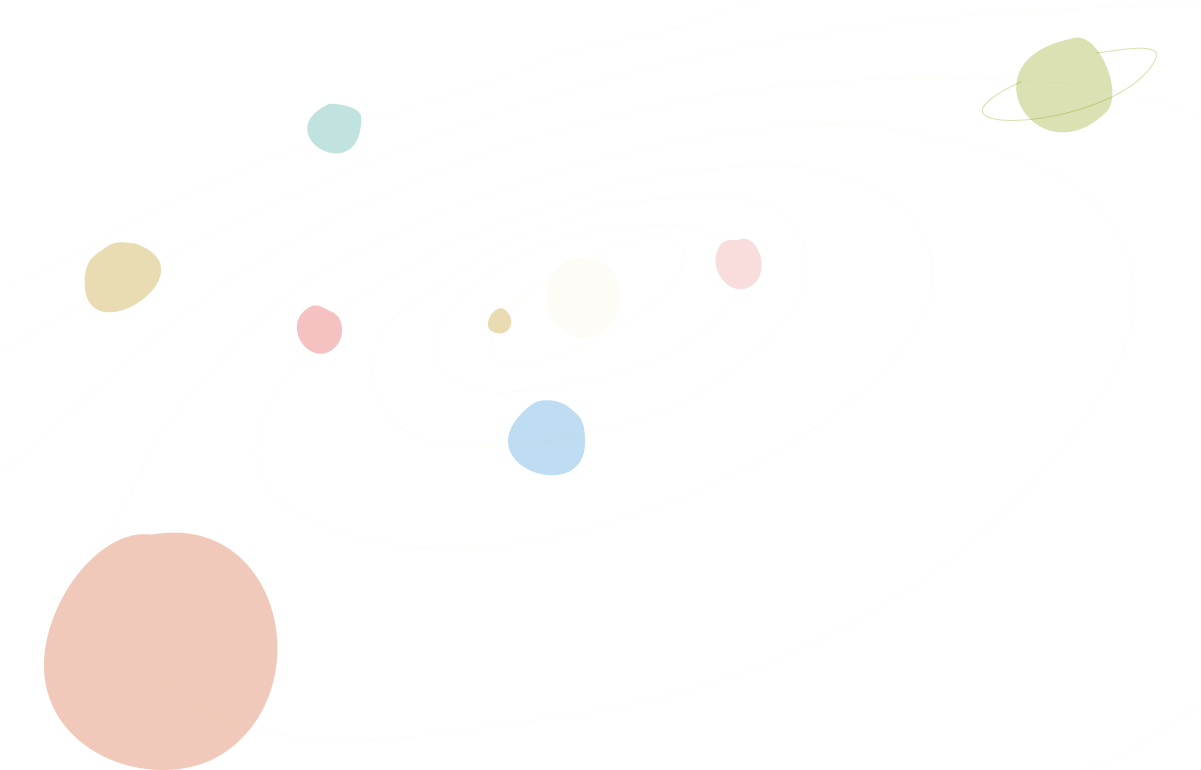
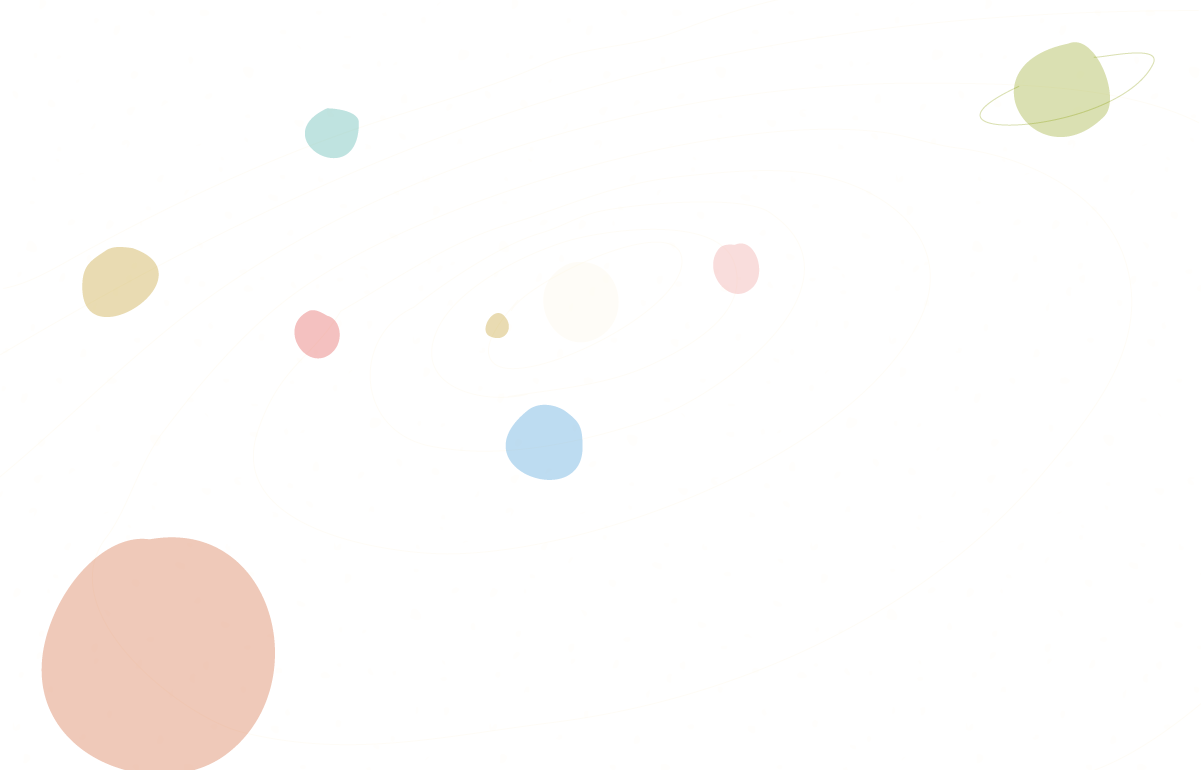
More IE9 fallback styles

diff --git a/css/screen.css b/css/screen.css
@@ -376,6 +376,7 @@ body strong {
   border-bottom-style: solid;
   border-bottom-width: 0.048em;
   padding-bottom: 1.19em;
+  background: rgba(0, 43, 54, 0.25);
   background: rgba(0, 43, 54, 0.25) -webkit-gradient(linear, 50% 0%, 50% 100%, color-stop(0%, rgba(0, 43, 54, 0.25)), color-stop(100%, rgba(0, 43, 54, 0)));
   background: rgba(0, 43, 54, 0.25) -webkit-linear-gradient(top, rgba(0, 43, 54, 0.25), rgba(0, 43, 54, 0));
   background: rgba(0, 43, 54, 0.25) -moz-linear-gradient(top, rgba(0, 43, 54, 0.25), rgba(0, 43, 54, 0));
@@ -429,11 +430,12 @@ body strong {
 }
 @media (min-width: 39.375em) {
   .team {
-    background: url('../images/space.png?1342563945') no-repeat fixed center, url('../images/stars.png?1342563945') repeat fixed center, -webkit-gradient(linear, 100% 50%, 0% 50%, color-stop(0%, rgba(0, 43, 54, 0.75)), color-stop(100%, rgba(0, 43, 54, 0)));
-    background: url('../images/space.png?1342563945') no-repeat fixed center, url('../images/stars.png?1342563945') repeat fixed center, -webkit-linear-gradient(right, rgba(0, 43, 54, 0.75), rgba(0, 43, 54, 0));
-    background: url('../images/space.png?1342563945') no-repeat fixed center, url('../images/stars.png?1342563945') repeat fixed center, -moz-linear-gradient(right, rgba(0, 43, 54, 0.75), rgba(0, 43, 54, 0));
-    background: url('../images/space.png?1342563945') no-repeat fixed center, url('../images/stars.png?1342563945') repeat fixed center, -o-linear-gradient(right, rgba(0, 43, 54, 0.75), rgba(0, 43, 54, 0));
-    background: url('../images/space.png?1342563945') no-repeat fixed center, url('../images/stars.png?1342563945') repeat fixed center, linear-gradient(right, rgba(0, 43, 54, 0.75), rgba(0, 43, 54, 0));
+    background: rgba(0, 43, 54, 0.5) url('../images/space.png?1342631867') no-repeat fixed center;
+    background: url('../images/space.png?1342631867') no-repeat fixed center, -webkit-gradient(linear, 100% 50%, 0% 50%, color-stop(0%, rgba(0, 43, 54, 0.75)), color-stop(100%, rgba(0, 43, 54, 0)));
+    background: url('../images/space.png?1342631867') no-repeat fixed center, -webkit-linear-gradient(right, rgba(0, 43, 54, 0.75), rgba(0, 43, 54, 0));
+    background: url('../images/space.png?1342631867') no-repeat fixed center, -moz-linear-gradient(right, rgba(0, 43, 54, 0.75), rgba(0, 43, 54, 0));
+    background: url('../images/space.png?1342631867') no-repeat fixed center, -o-linear-gradient(right, rgba(0, 43, 54, 0.75), rgba(0, 43, 54, 0));
+    background: url('../images/space.png?1342631867') no-repeat fixed center, linear-gradient(right, rgba(0, 43, 54, 0.75), rgba(0, 43, 54, 0));
     -webkit-background-size: cover, auto, auto;
     -moz-background-size: cover, auto, auto;
     -o-background-size: cover, auto, auto;

diff --git a/sass/modules/_team.scss b/sass/modules/_team.scss
@@ -4,6 +4,7 @@
 .team {
   @include padding-leader(1);
   @include trailing-border(1px,1);
+  @include background(rgba($base,.25));
   @include background(rgba($base,.25) linear-gradient(top, rgba($base,.25), rgba($base,0)));
   border-color: $base;
 
@@ -41,9 +42,9 @@
   }
 
   @include at-breakpoint($break) {
+    @include background(rgba($base,.5) image-url('space.png') no-repeat fixed center);
     @include background(
       image-url('space.png') no-repeat fixed center,
-      image-url('stars.png') repeat fixed center,
       linear-gradient(right, rgba($base,.75), rgba($base,0))
     );
     @include background-size(cover, auto, auto);
